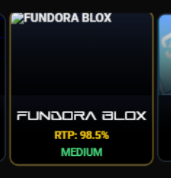
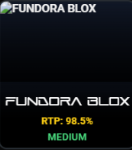
Update game card and carousel background images for Fundora Blox
Update `fundora-blox-new.png` to `fundora-blox-carousel.png` in `game-carousel.tsx` and `fundora-blox-blocks.png` to `fundora-blox-card.png` in `home.tsx`.

Replit-Commit-Author: Agent
Replit-Commit-Session-Id: 1ccebf17-ae2c-4916-b557-fbd8a24e2afd
Replit-Commit-Checkpoint-Type: full_checkpoint
Replit-Commit-Event-Id: 95264cea-26dc-4742-bb02-e24104a1e9b6
Replit-Commit-Screenshot-Url: https://storage.googleapis.com/screenshot-production-us-central1/bf19db05-269d-4808-81df-7da444ad80dd/1ccebf17-ae2c-4916-b557-fbd8a24e2afd/TaJtmum

Changed region(s): [[0.0, 0.0, 1.0, 0.96], [0.0303, 0.96, 1.0, 1.0], [0.0, 0.96, 0.0303, 0.9867]]

diff --git a/client/src/components/game-carousel.tsx b/client/src/components/game-carousel.tsx
@@ -107,7 +107,7 @@ const games: Game[] = [
     id: 'fundora-blox',
     name: 'FUNDORA BLOX',
     path: '/fundora-blox-game',
-    image: '/game-images/fundora-blox-new.png',
+    image: '/game-images/fundora-blox-carousel.png',
     description: 'Stack blocks to reach prize levels - perfect placement multiplies rewards!',
     rtp: '98.5%',
     volatility: 'medium',

diff --git a/client/src/pages/home.tsx b/client/src/pages/home.tsx
@@ -153,7 +153,7 @@ const games = [
     badgeColor: 'bg-red-500',
     tag: 'PUZZLE',
     icon: Boxes,
-    bgImage: '/game-images/fundora-blox-blocks.png',
+    bgImage: '/game-images/fundora-blox-card.png',
     description: 'Stack blocks to reach higher rows and win bigger prizes! Reach row 13 for 100x!',
     rtp: 98.5,
     category: 'freetoplay' as const
